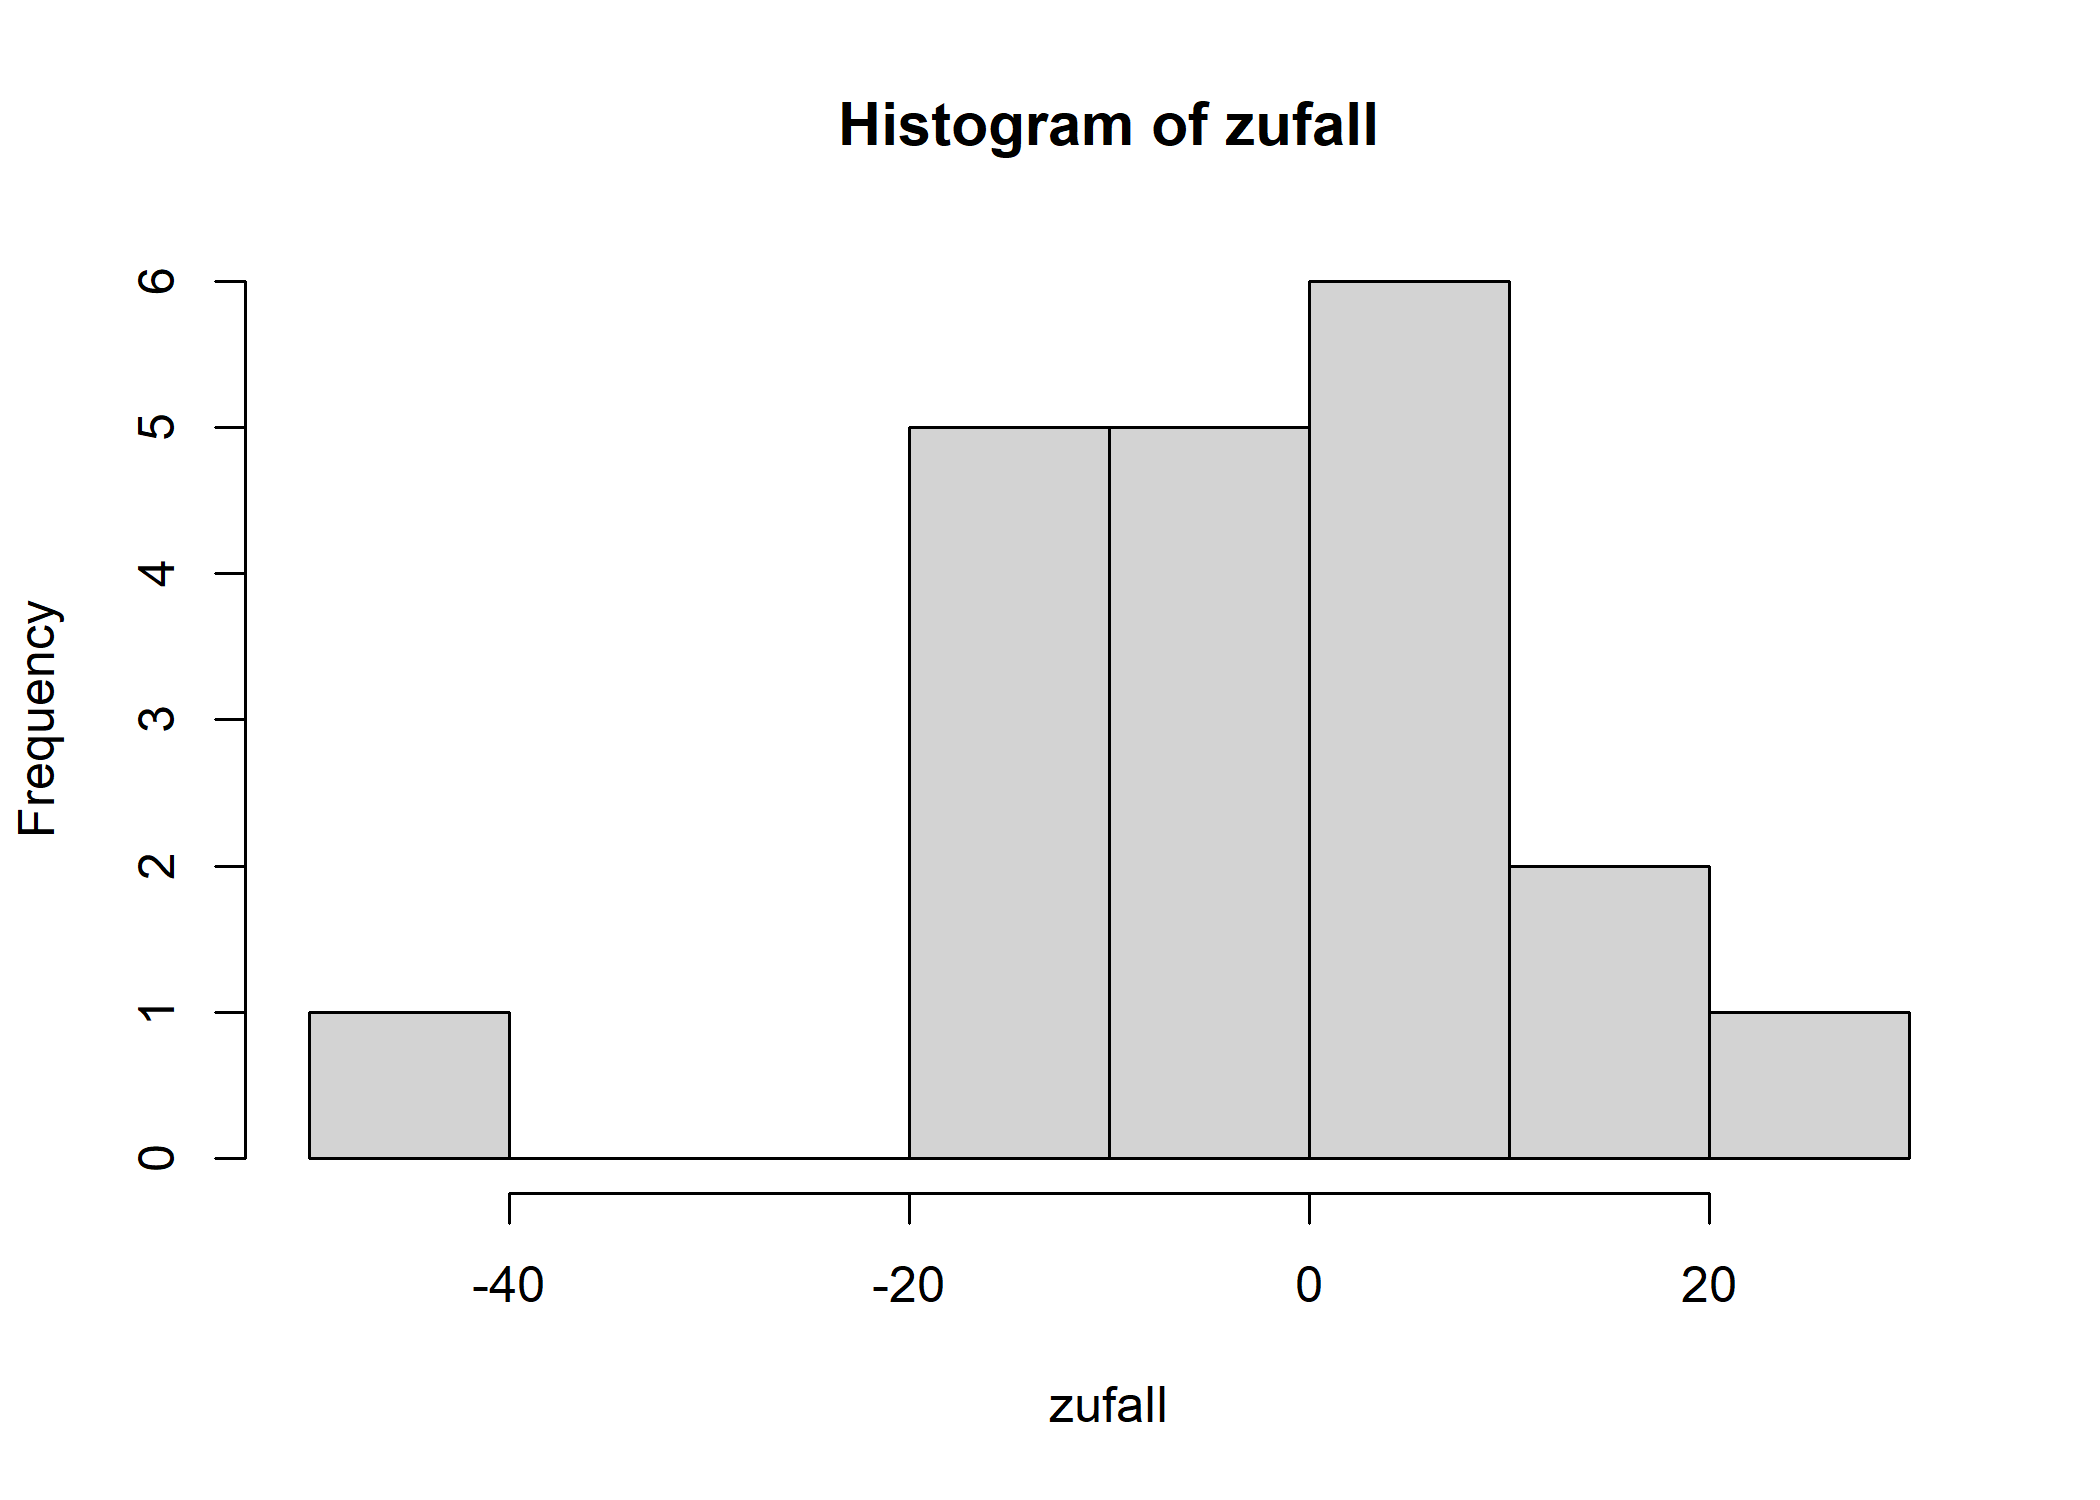
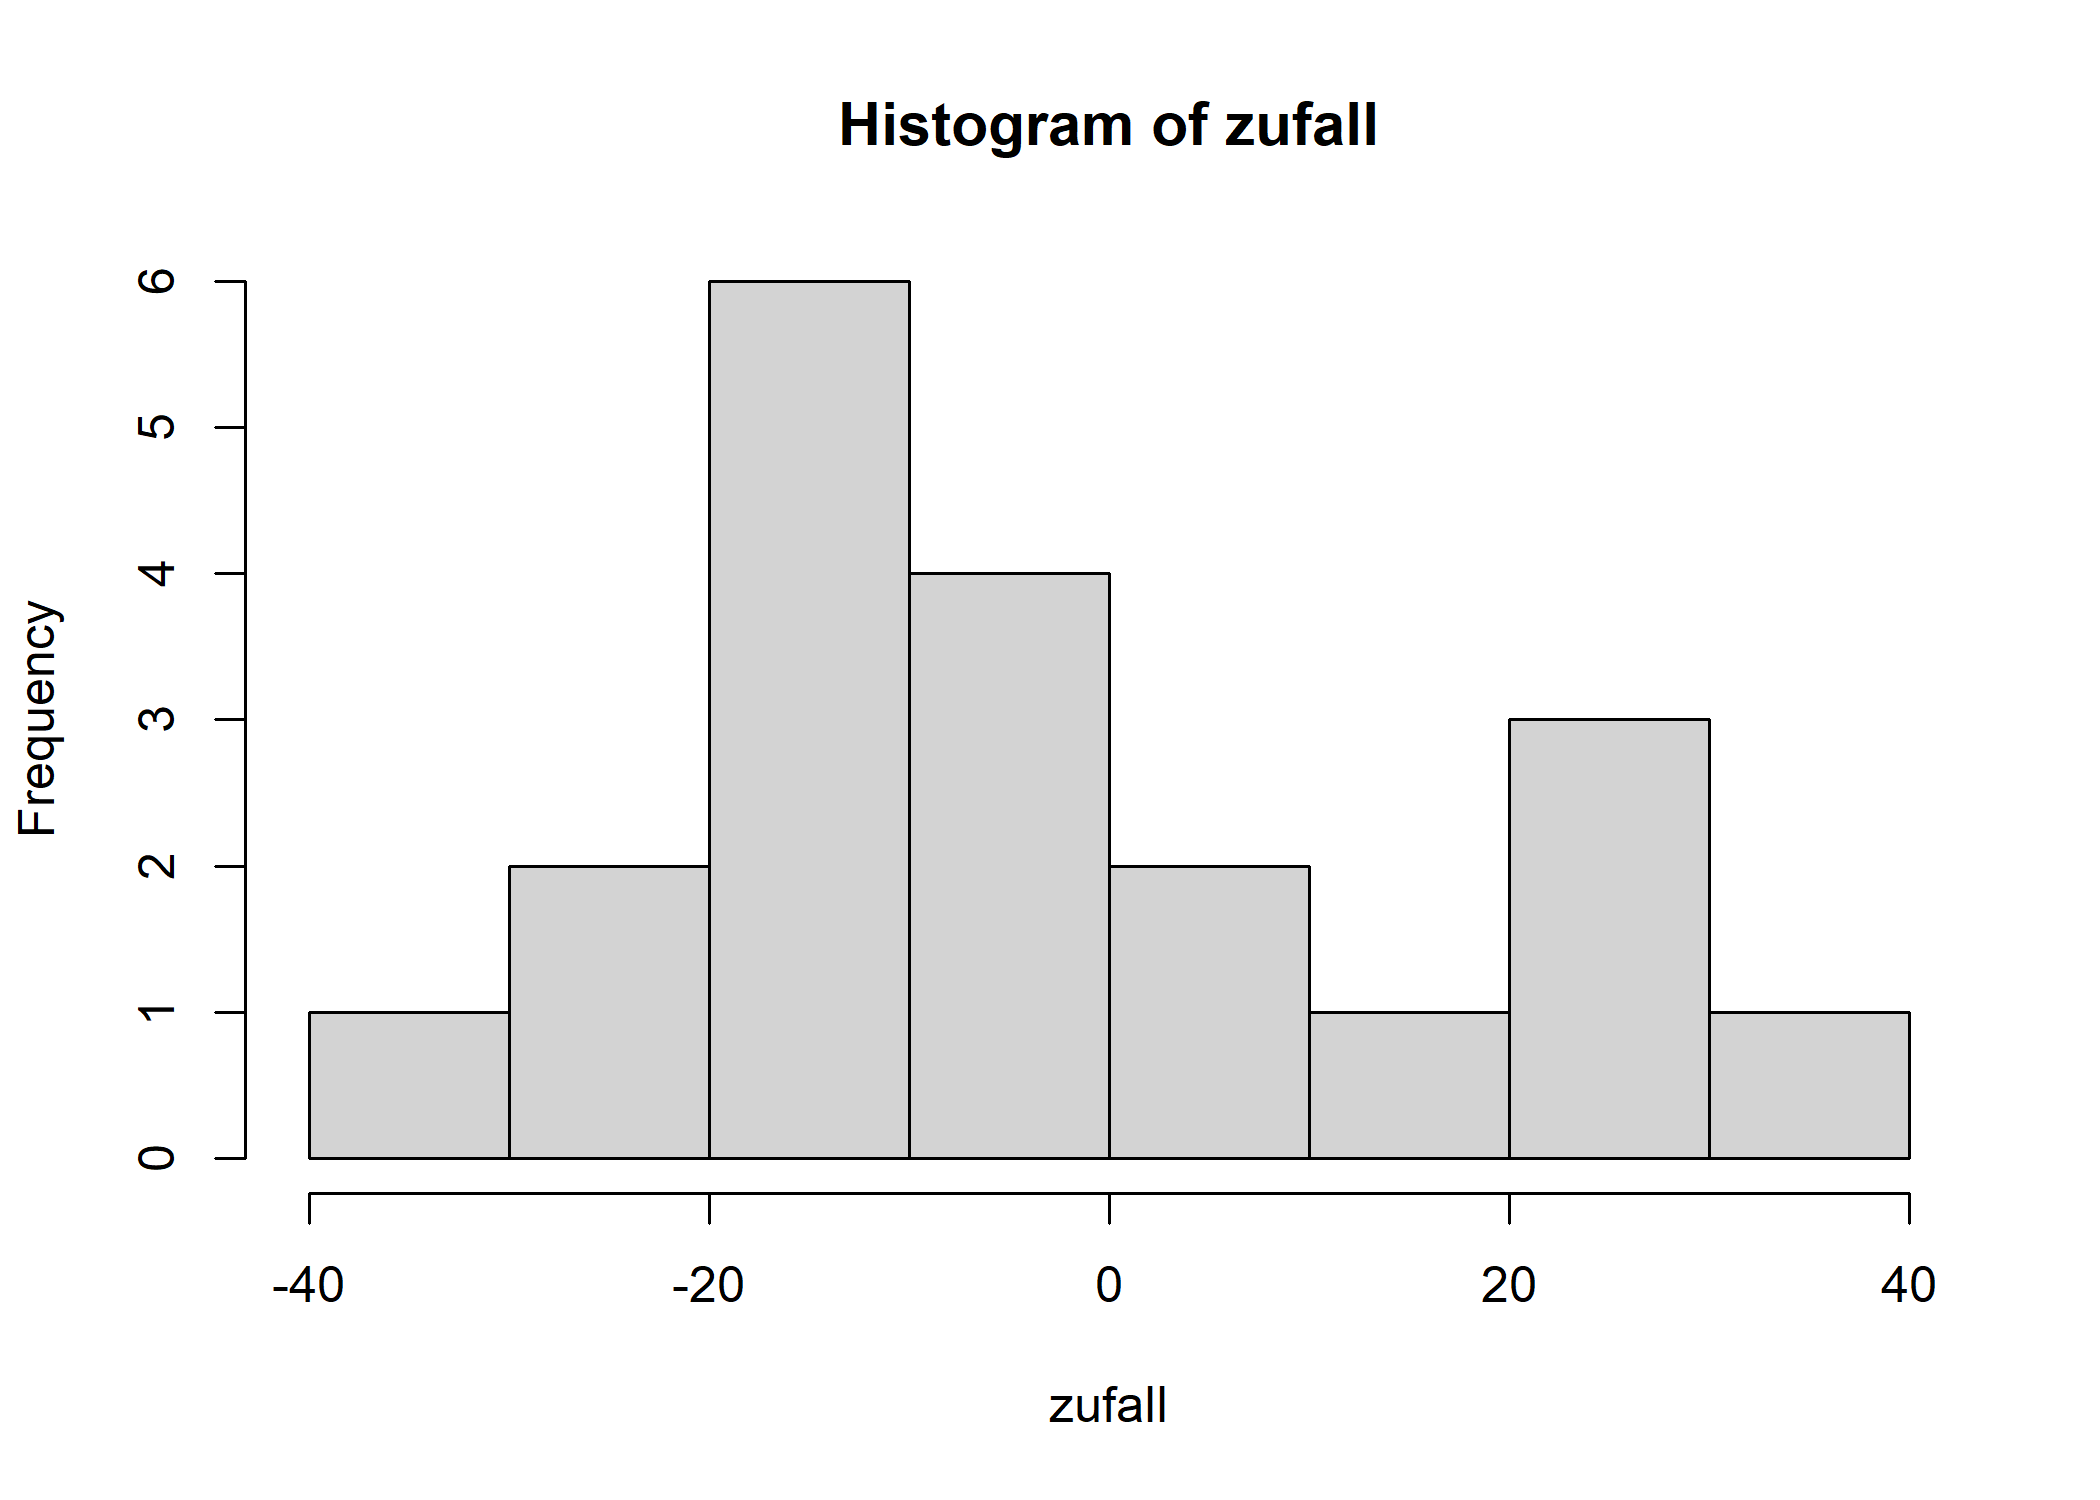
.

diff --git a/docs/m2_home.html b/docs/m2_home.html
@@ -202,7 +202,11 @@ window.Quarto = {
     <h2 id="toc-title">On this page</h2>
    
   <ul>
-  <li><a href="#deskriptive-statistik" id="toc-deskriptive-statistik" class="nav-link active" data-scroll-target="#deskriptive-statistik"><span class="header-section-number">1</span> Deskriptive Statistik</a></li>
+  <li><a href="#messtheoretische-grundlagen" id="toc-messtheoretische-grundlagen" class="nav-link active" data-scroll-target="#messtheoretische-grundlagen">Messtheoretische Grundlagen</a>
+  <ul class="collapse">
+  <li><a href="#skalenniveaus" id="toc-skalenniveaus" class="nav-link" data-scroll-target="#skalenniveaus">Skalenniveaus</a></li>
+  </ul></li>
+  <li><a href="#deskriptive-statistik" id="toc-deskriptive-statistik" class="nav-link" data-scroll-target="#deskriptive-statistik">Deskriptive Statistik</a></li>
   </ul>
 </nav>
     </div>
@@ -222,7 +226,7 @@ window.Quarto = {
     <div>
     <div class="quarto-title-meta-heading">Published</div>
     <div class="quarto-title-meta-contents">
-      <p class="date">12.03.2026</p>
+      <p class="date">18.03.2026</p>
     </div>
   </div>
   
@@ -234,8 +238,75 @@ window.Quarto = {
 </header>
 
 
-<section id="deskriptive-statistik" class="level1" data-number="1">
-<h1 data-number="1"><span class="header-section-number">1</span> Deskriptive Statistik</h1>
+<p>Chaos in Notizenform</p>
+<section id="messtheoretische-grundlagen" class="level1">
+<h1>Messtheoretische Grundlagen</h1>
+<section id="skalenniveaus" class="level3">
+<h3 class="anchored" data-anchor-id="skalenniveaus">Skalenniveaus</h3>
+<p><strong>NOIRA</strong>-Regel</p>
+<ul>
+<li>Nominalskala</li>
+<li>Ordinalskala</li>
+<li>Intervallskala</li>
+<li>Ratio-/Verhältnisskala</li>
+<li>Absolutskala</li>
+</ul>
+<p><strong>Nominalskala</strong></p>
+<ul>
+<li>Namen/Kategorien</li>
+<li>Unterscheidung zwischen Gleich und Ungleich, keine Sortierung/Besser/Schlecht</li>
+<li>Beispiele: Geschlecht, Augenfarbe, Matrikelnummer, Wohnort</li>
+<li>Zentrale Tendenz: Nur der Modus (der häufigste Wert) ist sinnvoll</li>
+<li>Dispersion: Hier kommt der Relativer Informationsgehalt <span class="math inline">\(H\)</span> ins Spiel.</li>
+</ul>
+<p><strong>Ordinalskala</strong></p>
+<ul>
+<li>Rangordnung</li>
+<li>Unterscheidung zusätzlich eine “Größer-Kleiner”-Relation (<span class="math inline">\(A &gt; B\)</span>)</li>
+<li>Beispiele: Tabellenplätze beim Sport, Schulnoten, Windstärken, höchste Bildungsabschlüsse</li>
+<li>Wichtig: Die Abstände zwischen den Rängen sind nicht interpretierbar (der Abstand zwischen Platz 1 und 2 ist nicht zwingend derselbe wie zwischen Platz 2 und 3)</li>
+<li>Zentrale Tendenz: Der Median ist hier das Maß der Wahl</li>
+</ul>
+<p><strong>Intervallskala</strong></p>
+<ul>
+<li>gleiche Abstände: Abstände/Intervalle zwischen den Werten gleich groß und interpretierbar</li>
+<li>Beispiele: Temperatur in Grad Celsius, IQ-Werte, Kalenderjahre</li>
+<li>Besonderheit: Es gibt keinen natürlichen Nullpunkt. (0°C bedeutet nicht “keine Temperatur”)</li>
+<li>Zentrale Tendenz: arithmetisches Mittel (Durchschnitt)</li>
+</ul>
+<p><strong>Ratio-/Verhältnisskala</strong></p>
+<ul>
+<li>zusätzlich natürlicher Nullpunkt</li>
+<li>Beispiele: Einkommen, Alter in Jahren, Reaktionszeit in ms, Gewicht</li>
+<li>Vorteil: Verhältnisbildung “A ist doppelt so alt wie B” (Aber 20°C ist nicht doppelt so warm wie 10°C)</li>
+<li>Einheit willkürlich festgelegt, ob zB in Gramm oder Pfund gemessen unerheblich</li>
+</ul>
+<p><strong>Absolutskala</strong></p>
+<ul>
+<li>auch Maßeinheit natürlich vorgegeben und unveränderlich</li>
+<li>zumeist Häufigkeiten/Anzahl</li>
+<li>Beispiele: Anzahl der Kinder in einer Familie, Anzahl der Fehler in einem Test, Anzahl der Studierenden im Modul M2.</li>
+</ul>
+<section id="äquivalenzrelation" class="level6">
+<h6 class="anchored" data-anchor-id="äquivalenzrelation">Äquivalenzrelation</h6>
+<p>Eine Relation R <span class="math inline">\(\circle\)</span> heißt Äquivalenzrelation, wenn sie folgende drei Anforderungen erfüllt:</p>
+<ol type="1">
+<li>R ist reflexiv, d.h., für alle u <span class="math inline">\(\in\)</span> U gilt: u <span class="math inline">\(\circlex\)</span> u.</li>
+<li>R ist symmetrisch, d.h., für alle u, v<span class="math inline">\(\in\)</span> U gilt: u <span class="math inline">\(\circ\)</span> v → v <span class="math inline">\(\circle\)</span> u.</li>
+<li>R ist transitiv, d.h., für alle u, v, w <span class="math inline">\(\in\)</span> U gilt: (u <span class="math inline">\(\circle\)</span> v <span class="math inline">\(\and\)</span> v<span class="math inline">\(\circle\)</span>w) → u<span class="math inline">\(\circle\)</span>w.<br>
+Für die Äquivalenzrelation verwenden wir das Zeichen ≈.</li>
+</ol>
+<p><strong>Merkmals-xx</strong></p>
+<ul>
+<li><strong>Merkmalsträger:</strong> Das Objekt, das untersucht wird (z. B. ein Student).</li>
+<li><strong>Merkmal:</strong> Die interessierende Eigenschaft (z. B. die Körpergröße)</li>
+<li><strong>Merkmalsausprägung:</strong> Der konkrete Wert, den dieser spezielle Merkmalsträger hat (z. B. 1,80 m)</li>
+</ul>
+</section>
+</section>
+</section>
+<section id="deskriptive-statistik" class="level1">
+<h1>Deskriptive Statistik</h1>
 <p><strong>Arithmetisches Mittel</strong><br>
 arithm. Mittel = <span class="math inline">\(\sum \frac{Alle\, Werte}{Anzahl\, Werte}\)</span><br>
 in R: <em>mean</em></p>
@@ -298,9 +369,7 @@ in R: <em>quantile</em></p>
    3   15   30   55  100 </code></pre>
 </div>
 </div>
-<p><strong>Interquartilsabstand</strong><br>
-(=Q3-Q1) Abstand der mittleren 50% der Daten<br>
-in R: <em>IQR</em></p>
+<p><strong>Interquartilsabstand</strong>&nbsp; (=Q3-Q1) Abstand der mittleren 50% der Daten&nbsp; in R: <em>IQR</em></p>
 <div class="cell">
 <details open="" class="code-fold">
 <summary>R-Code anzeigen</summary>
@@ -323,8 +392,7 @@ in R: <em>IQR</em></p>
    3.00   15.00   30.00   39.09   55.00  100.00 </code></pre>
 </div>
 </div>
-<p><strong>Quantil</strong><br>
-Verallgemeinerung Quartil<br>
+<p><strong>Quantil</strong>&nbsp; Verallgemeinerung Quartil<br>
 p-Quartil: links sind p der Werte, rechts 1-p<br>
 Q3 entspricht damit p = 75%<br>
 in R: <em>quantile(x, probs)</em></p>
@@ -347,8 +415,7 @@ Menge von Objekten in R, durch Pfeil definiert, mit Funktion c=combine zusammeng
 <div class="code-copy-outer-scaffold"><div class="sourceCode cell-code" id="cb15"><pre class="sourceCode r code-with-copy"><code class="sourceCode r"><span id="cb15-1"><a href="#cb15-1" aria-hidden="true" tabindex="-1"></a>vektor <span class="ot">&lt;-</span> <span class="fu">c</span>(<span class="dv">1</span>,<span class="dv">2</span>,<span class="dv">3</span>,<span class="dv">4</span>,<span class="dv">5</span>)</span></code></pre></div><button title="Copy to Clipboard" class="code-copy-button"><i class="bi"></i></button></div>
 </details>
 </div>
-<p><strong>Zufallszahlen</strong><br>
-Für Vektoren bestehend aus Zufallszahlen kann die Funktion rnorm(Anzahl Zahlen, arith. Mittel, Standardabweichung) verwendet werden, die Zahlen aus der Normalverteilung angibt</p>
+<p><strong>Zufallszahlen</strong>&nbsp; Für Vektoren bestehend aus Zufallszahlen kann die Funktion rnorm(Anzahl Zahlen, arith. Mittel, Standardabweichung) verwendet werden, die Zahlen aus der Normalverteilung angibt</p>
 <div class="cell">
 <details open="" class="code-fold">
 <summary>R-Code anzeigen</summary>
@@ -357,17 +424,17 @@ Für Vektoren bestehend aus Zufallszahlen kann die Funktion rnorm(Anzahl Zahlen,
 </details>
 <div class="cell-output cell-output-stdout">
 <pre><code>   Min. 1st Qu.  Median    Mean 3rd Qu.    Max. 
--43.620 -10.223  -5.585  -2.787   6.389  23.984 </code></pre>
+-30.019 -16.187  -6.062  -2.729  11.747  33.388 </code></pre>
 </div>
 <details open="" class="code-fold">
 <summary>R-Code anzeigen</summary>
 <div class="code-copy-outer-scaffold"><div class="sourceCode cell-code" id="cb18"><pre class="sourceCode r code-with-copy"><code class="sourceCode r"><span id="cb18-1"><a href="#cb18-1" aria-hidden="true" tabindex="-1"></a>zufall</span></code></pre></div><button title="Copy to Clipboard" class="code-copy-button"><i class="bi"></i></button></div>
 </details>
 <div class="cell-output cell-output-stdout">
-<pre><code> [1] -43.620390 -17.571846 -18.773847   5.567261  14.233163   8.164144
- [7] -10.724319 -13.433923   1.167143  23.984204   5.797866  -5.528379
-[13]  -5.754225   9.051120 -10.055761   1.804752  -5.950374  18.946878
-[19]  -7.395333  -5.641232</code></pre>
+<pre><code> [1]  -5.916318 -30.019495  17.383435  20.918651 -11.454643  24.923101
+ [7] -18.340451 -21.685755  -3.943551 -15.034874   9.867726  -6.208163
+[13] -26.877600 -17.175724  33.387963   1.311931 -11.522810  -2.173865
+[19] -15.858065  23.836233</code></pre>
 </div>
 </div>
 <p><strong>Histogramm</strong><br>
@@ -385,8 +452,7 @@ graphische Darstellung der Häufigkeitsverteilung</p>
 </div>
 </div>
 </div>
-<p><strong>Boxplot</strong><br>
-Dartellung der Verteilung<br>
+<p><strong>Boxplot</strong>&nbsp; Dartellung der Verteilung<br>
 Darstellung der Medians, der Quartile Q1 und Q3, Whiskern und Ausreißern<br>
 Whisker sind der letzte Wert, der sich max. das 1,5-fache des IQR von Q1 bzw. Q3 befindet<br>
 Ausreißer weiter entfernt, durch Kreis gekennzeichnet</p>

diff --git a/docs/index.html b/docs/index.html
@@ -230,7 +230,7 @@ window.Quarto = {
 
 <div class="quarto-listing quarto-listing-container-grid" id="listing-listing">
 <div class="list grid quarto-listing-cols-3">
-<div class="g-col-1" data-index="0" data-listing-file-modified-sort="1773355265479" data-listing-reading-time-sort="2" data-listing-word-count-sort="293">
+<div class="g-col-1" data-index="0" data-listing-file-modified-sort="1773828060237" data-listing-reading-time-sort="3" data-listing-word-count-sort="563">
 <a href="./m2_home.html" class="quarto-grid-link">
 <div class="quarto-grid-item card h-100 card-left">
 <p class="card-img-top">
